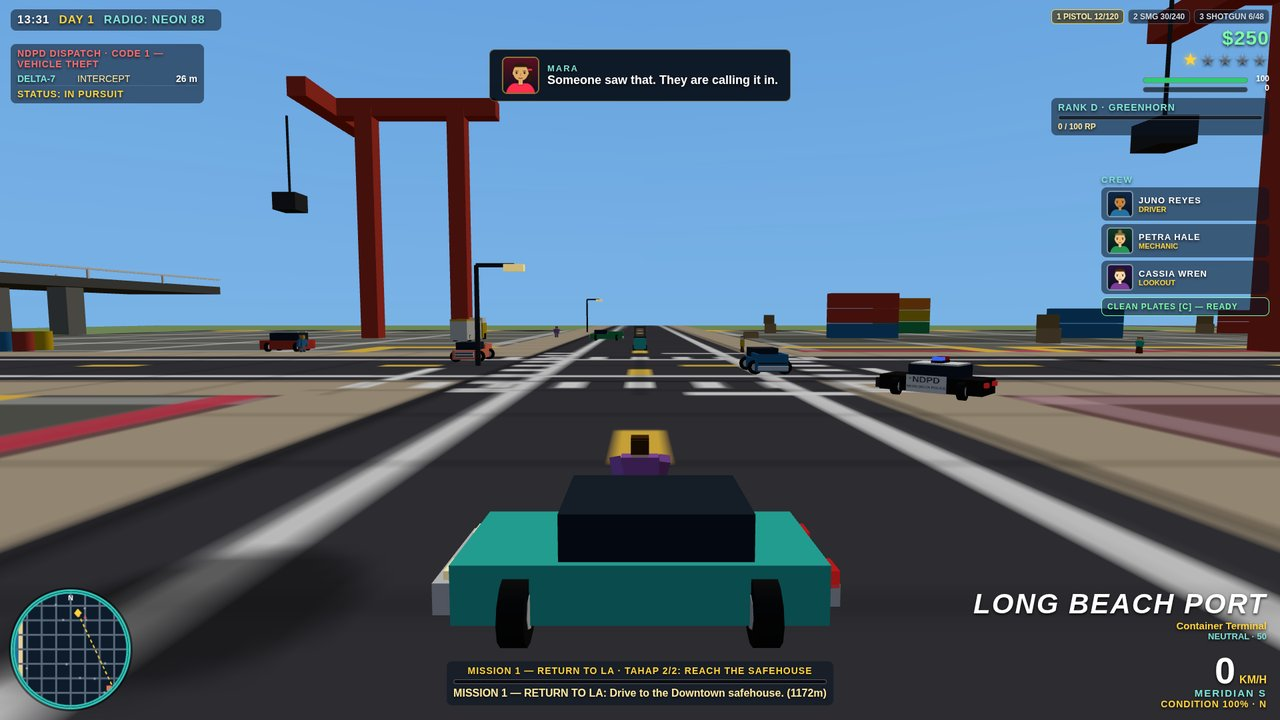
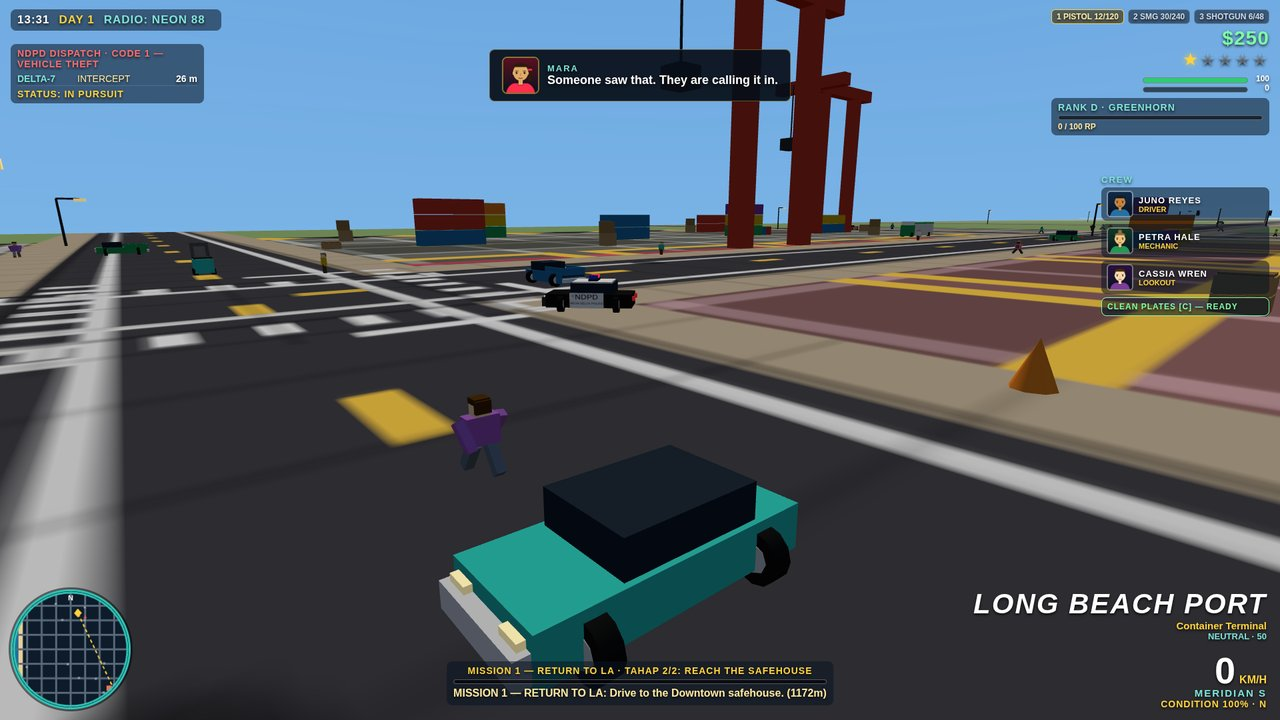
v11 fix: re-stage shots 1+2 from distinct angles (heli in frame)
Shot 1: high 3/4 rear-side angle (camHold az -0.539, pitch 0.08) instead
of the centered rear chase cam; helicopter AIR-1 visible with spotlight
cone + ground disc; dispatch 4 units + WANTED 3 + crew + rank readable.
Shot 2: high side angle (camHold az -0.70, pitch 0.38); teal Meridian S
+ witness ped + responding NDPD cruiser (DELTA-7, NDPD readable) in
frame; port cranes/containers fill the frame, sky no longer dominant.
Both moments unchanged (M5 TAHAP 1/2 DAY 3 wanted 3 / M1 TAHAP 2/2
DAY 1 wanted 1). Staging-only game change: setCamHold override +
cumulative ticks counter (mouse orbit cannot hold an angle headless -
pointer lock never engages); no gameplay behaviour changed. Sim 225/225.
Screenshots 1280x720, both under 256 KiB.

diff --git a/game/src/main.js b/game/src/main.js
@@ -58,13 +58,14 @@ const game = {
   waypoint: null,
   inCar: null,
   bustT: 0, deadT: 0,
-  fps: 0, frames: 0, fpsT: 0, errors: [],
+  fps: 0, frames: 0, fpsT: 0, ticks: 0, errors: [],
   day: 1, rp: 0, standing: {}, // rank/respect: RP from real payouts only
   crime: 'EVADING POLICE', // last crime label shown on the dispatch panel
   witnessT: 0, // witness report countdown (0 = none pending)
   shotT: -99, // time of the last gunshot (drives NPC panic)
   crewState: newCrewState(), // CLEAN PLATES cooldown
   portraits: null,
+  camHold: null, // staging-only chase-cam hold {az, pitch} via setCamHold; null = normal chase cam
 };
 
 let rig, world, traffic, peds, police, officers, hud, input, audio, combat;
@@ -232,6 +233,7 @@ function boot() {
     health: game.health,
     fps: Math.round(game.fps),
     frames: game.frames,
+    ticks: game.ticks,
     errors: game.errors,
     waypoint: game.waypoint,
     officers: officers.list.length,
@@ -295,6 +297,15 @@ const gameApi = {
   setCamera(yaw, pitch) {
     rig.yaw = yaw;
     rig.pitch = pitch;
+  },
+  setCamHold(az, pitch) {
+    // Staging-only camera hold (screenshot renders): pins the chase cam at a
+    // fixed azimuth offset from the player's heading + a fixed pitch,
+    // overriding the mouse-look/auto-realign every tick. Pass null to clear.
+    // Never set by gameplay. Mouse orbit cannot hold an angle in headless
+    // (it needs pointer lock, which the headless shell cannot engage), so
+    // staged angles go through this instead.
+    game.camHold = az === null ? null : { az, pitch };
   },
   setMoney(n) {
     game.money = n;
@@ -679,6 +690,7 @@ function tick(now) {
 
   // FPS.
   game.frames++;
+  game.ticks++; // cumulative tick count (staging gate: frames is per-second FPS and reads 0 under load)
   if (now - game.fpsT > 1000) {
     game.fps = game.frames * 1000 / (now - game.fpsT);
     game.frames = 0;
@@ -1039,6 +1051,12 @@ function updateCameraHud(dt, t) {
   const gy = groundY(player.x, player.z);
   const speed01 = game.inCar ? Math.abs(game.inCar.speed) / game.inCar.def.top : 0;
   camTarget = { x: player.x, y: gy + 2.2, z: player.z };
+  // Staging camera hold: pin yaw/pitch every tick (the chase cam would
+  // otherwise auto-realign to the car's heading within ~1.2s of no mouse).
+  if (game.camHold) {
+    rig.yaw = player.heading + game.camHold.az;
+    rig.pitch = Math.max(0.05, Math.min(1.15, game.camHold.pitch));
+  }
   rig.updateCamera(dt, camTarget.x, camTarget.y, camTarget.z, player.heading, speed01, !!game.inCar, world.colliders);
   const dist = districtAt(player.x, player.z);
   const st = getStanding(game.standing, dist.id);
